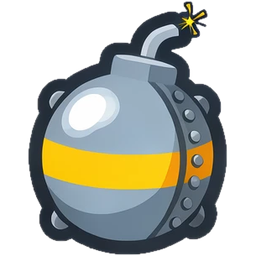
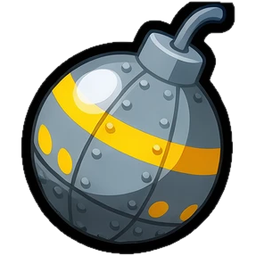
Zombie Bomber: use the new bomb sheet
The bombs in this sheet touch each other and have white details (dots,
skull) inside them. tools/cut_flood.py gets two options for that:
'keepholes' keeps enclosed white areas, and 'round' splits touching
round items by where their circles meet, then drops strays (another
bomb's fuse tip or outline) while keeping detached sparks. Hitboxes
regenerated.

Claude-Session: https://claude.ai/code/session_014gobheM9XG1GV5X2tuF5zD

diff --git a/bomber/shapes.js b/bomber/shapes.js
@@ -1,2 +1,2 @@
 // Generated: convex outline of each sprite in 256x256 sprite pixels, used as its hitbox.
-const SHAPES = {"../assets/bomber/bombs/01_firecracker.png": [[105.5,48.5],[147.5,21.5],[189.5,2.5],[205.5,12.5],[224.5,144.5],[224.5,169.5],[218.5,192.5],[205.5,216.5],[185.5,236.5],[167.5,246.5],[138.5,253.5],[115.5,253.5],[85.5,245.5],[50.5,216.5],[36.5,190.5],[31.5,145.5],[38.5,120.5],[53.5,95.5]],"../assets/bomber/bombs/02_cherry_bomb.png": [[205.5,13.5],[224.5,147.5],[218.5,192.5],[200.5,222.5],[180.5,239.5],[151.5,251.5],[117.5,253.5],[96.5,249.5],[69.5,235.5],[54.5,221.5],[38.5,195.5],[31.5,171.5],[31.5,141.5],[37.5,120.5],[62.5,85.5],[104.5,48.5],[147.5,20.5],[185.5,2.5]],"../assets/bomber/bombs/03_grenade.png": [[43.5,105.5],[98.5,12.5],[106.5,4.5],[132.5,2.5],[175.5,4.5],[208.5,26.5],[221.5,51.5],[225.5,142.5],[213.5,195.5],[201.5,217.5],[183.5,235.5],[158.5,248.5],[115.5,253.5],[91.5,248.5],[70.5,237.5],[51.5,219.5],[32.5,181.5],[29.5,146.5]],"../assets/bomber/bombs/04_dynamite.png": [[229.5,144.5],[229.5,158.5],[221.5,221.5],[215.5,233.5],[203.5,240.5],[141.5,253.5],[113.5,253.5],[96.5,250.5],[54.5,238.5],[43.5,233.5],[35.5,221.5],[26.5,147.5],[36.5,74.5],[50.5,59.5],[148.5,13.5],[187.5,2.5],[192.5,5.5],[221.5,77.5]],"../assets/bomber/bombs/05_tnt.png": [[62.5,84.5],[106.5,46.5],[147.5,20.5],[185.5,2.5],[205.5,15.5],[224.5,142.5],[225.5,163.5],[213.5,204.5],[195.5,228.5],[179.5,240.5],[152.5,251.5],[114.5,253.5],[88.5,246.5],[63.5,231.5],[42.5,205.5],[29.5,165.5],[29.5,147.5],[43.5,106.5]],"../assets/bomber/bombs/06_cluster_bomb.png": [[204.5,11.5],[229.5,154.5],[229.5,167.5],[199.5,234.5],[183.5,246.5],[139.5,253.5],[116.5,253.5],[102.5,251.5],[61.5,239.5],[55.5,232.5],[36.5,194.5],[26.5,162.5],[31.5,132.5],[35.5,119.5],[51.5,85.5],[61.5,73.5],[146.5,20.5],[184.5,2.5]],"../assets/bomber/bombs/07_aerial_bomb.png": [[146.5,20.5],[185.5,2.5],[206.5,13.5],[220.5,102.5],[225.5,140.5],[225.5,171.5],[215.5,221.5],[210.5,230.5],[197.5,238.5],[156.5,250.5],[139.5,253.5],[102.5,251.5],[56.5,240.5],[40.5,225.5],[30.5,175.5],[30.5,138.5],[38.5,98.5],[49.5,82.5]],"../assets/bomber/bombs/08_napalm.png": [[61.5,84.5],[106.5,46.5],[145.5,21.5],[185.5,2.5],[205.5,14.5],[224.5,143.5],[225.5,163.5],[219.5,190.5],[208.5,212.5],[177.5,241.5],[152.5,251.5],[114.5,253.5],[88.5,246.5],[63.5,231.5],[37.5,196.5],[29.5,167.5],[30.5,138.5],[44.5,103.5]],"../assets/bomber/bombs/09_bunker_buster.png": [[224.5,145.5],[221.5,185.5],[201.5,221.5],[179.5,240.5],[152.5,251.5],[113.5,253.5],[88.5,246.5],[71.5,237.5],[53.5,221.5],[32.5,181.5],[29.5,149.5],[35.5,123.5],[48.5,99.5],[59.5,87.5],[106.5,47.5],[146.5,21.5],[184.5,2.5],[204.5,14.5]],"../assets/bomber/bombs/10_thermobaric.png": [[205.5,12.5],[225.5,148.5],[221.5,187.5],[213.5,205.5],[194.5,230.5],[178.5,241.5],[142.5,253.5],[114.5,253.5],[88.5,246.5],[65.5,232.5],[43.5,206.5],[34.5,185.5],[30.5,149.5],[42.5,110.5],[65.5,82.5],[106.5,47.5],[145.5,22.5],[188.5,2.5]],"../assets/bomber/bombs/11_mega_nuke.png": [[206.5,13.5],[225.5,147.5],[225.5,168.5],[210.5,210.5],[177.5,241.5],[150.5,251.5],[119.5,253.5],[89.5,246.5],[69.5,235.5],[47.5,212.5],[34.5,186.5],[30.5,149.5],[34.5,128.5],[45.5,104.5],[65.5,82.5],[108.5,46.5],[144.5,23.5],[187.5,2.5]],"../assets/bomber/bombs/12_black_hole.png": [[205.5,12.5],[225.5,146.5],[225.5,168.5],[211.5,208.5],[191.5,232.5],[167.5,246.5],[139.5,253.5],[114.5,253.5],[88.5,246.5],[61.5,229.5],[38.5,196.5],[30.5,168.5],[34.5,128.5],[50.5,97.5],[66.5,81.5],[106.5,47.5],[148.5,20.5],[188.5,2.5]]};
+const SHAPES = {"../assets/bomber/bombs/01_firecracker.png": [[230.5,19.5],[227.5,164.5],[215.5,201.5],[190.5,231.5],[152.5,250.5],[114.5,253.5],[88.5,247.5],[59.5,230.5],[48.5,219.5],[31.5,190.5],[24.5,162.5],[24.5,142.5],[30.5,115.5],[44.5,89.5],[64.5,69.5],[81.5,59.5],[202.5,2.5],[224.5,7.5]],"../assets/bomber/bombs/02_cherry_bomb.png": [[230.5,15.5],[229.5,159.5],[221.5,191.5],[207.5,215.5],[181.5,238.5],[154.5,250.5],[115.5,253.5],[74.5,240.5],[60.5,230.5],[39.5,206.5],[27.5,178.5],[24.5,158.5],[26.5,127.5],[34.5,104.5],[48.5,83.5],[84.5,57.5],[196.5,5.5],[221.5,4.5]],"../assets/bomber/bombs/03_grenade.png": [[96.5,251.5],[60.5,223.5],[41.5,200.5],[27.5,160.5],[27.5,135.5],[34.5,109.5],[52.5,84.5],[150.5,4.5],[161.5,2.5],[204.5,21.5],[211.5,27.5],[228.5,57.5],[228.5,100.5],[225.5,156.5],[204.5,205.5],[182.5,232.5],[158.5,246.5],[127.5,253.5]],"../assets/bomber/bombs/04_dynamite.png": [[231.5,22.5],[228.5,164.5],[219.5,196.5],[189.5,233.5],[168.5,245.5],[139.5,253.5],[113.5,253.5],[90.5,248.5],[64.5,234.5],[47.5,218.5],[28.5,185.5],[23.5,159.5],[24.5,120.5],[28.5,108.5],[56.5,73.5],[84.5,56.5],[195.5,5.5],[223.5,5.5]],"../assets/bomber/bombs/05_tnt.png": [[234.5,16.5],[231.5,162.5],[227.5,179.5],[213.5,208.5],[196.5,227.5],[171.5,243.5],[146.5,251.5],[119.5,253.5],[88.5,247.5],[50.5,223.5],[26.5,186.5],[20.5,160.5],[24.5,112.5],[40.5,81.5],[61.5,60.5],[80.5,49.5],[185.5,2.5],[231.5,2.5]],"../assets/bomber/bombs/06_cluster_bomb.png": [[234.5,3.5],[234.5,150.5],[229.5,180.5],[208.5,218.5],[184.5,238.5],[141.5,253.5],[113.5,253.5],[81.5,244.5],[61.5,232.5],[37.5,205.5],[28.5,187.5],[21.5,157.5],[21.5,135.5],[26.5,112.5],[36.5,90.5],[56.5,66.5],[86.5,48.5],[188.5,2.5]],"../assets/bomber/bombs/07_aerial_bomb.png": [[233.5,23.5],[232.5,152.5],[227.5,179.5],[209.5,214.5],[185.5,236.5],[155.5,249.5],[119.5,253.5],[96.5,249.5],[73.5,239.5],[49.5,220.5],[30.5,190.5],[22.5,163.5],[22.5,131.5],[28.5,109.5],[46.5,78.5],[69.5,58.5],[189.5,2.5],[232.5,3.5]],"../assets/bomber/bombs/08_napalm.png": [[235.5,12.5],[233.5,155.5],[222.5,195.5],[196.5,228.5],[172.5,243.5],[133.5,253.5],[110.5,252.5],[81.5,244.5],[58.5,230.5],[43.5,215.5],[26.5,186.5],[19.5,157.5],[19.5,135.5],[26.5,106.5],[39.5,82.5],[67.5,56.5],[185.5,2.5],[232.5,2.5]],"../assets/bomber/bombs/09_bunker_buster.png": [[234.5,16.5],[231.5,166.5],[217.5,203.5],[196.5,228.5],[182.5,238.5],[157.5,249.5],[115.5,253.5],[94.5,249.5],[71.5,239.5],[48.5,220.5],[36.5,205.5],[24.5,179.5],[20.5,136.5],[27.5,107.5],[44.5,78.5],[74.5,54.5],[190.5,2.5],[231.5,2.5]],"../assets/bomber/bombs/10_thermobaric.png": [[234.5,23.5],[232.5,161.5],[226.5,186.5],[212.5,212.5],[192.5,232.5],[169.5,245.5],[136.5,253.5],[94.5,249.5],[70.5,238.5],[49.5,220.5],[36.5,203.5],[25.5,177.5],[21.5,143.5],[25.5,116.5],[50.5,73.5],[84.5,50.5],[191.5,2.5],[232.5,2.5]],"../assets/bomber/bombs/11_mega_nuke.png": [[233.5,2.5],[233.5,152.5],[232.5,166.5],[221.5,197.5],[194.5,230.5],[161.5,248.5],[116.5,253.5],[77.5,242.5],[56.5,228.5],[31.5,194.5],[23.5,171.5],[21.5,140.5],[23.5,123.5],[34.5,95.5],[47.5,77.5],[67.5,59.5],[82.5,51.5],[197.5,2.5]],"../assets/bomber/bombs/12_black_hole.png": [[234.5,8.5],[232.5,155.5],[222.5,194.5],[210.5,214.5],[182.5,238.5],[156.5,249.5],[112.5,252.5],[90.5,247.5],[58.5,229.5],[35.5,202.5],[24.5,176.5],[21.5,136.5],[24.5,118.5],[36.5,90.5],[57.5,65.5],[81.5,50.5],[189.5,2.5],[231.5,2.5]]};

diff --git a/tools/cut_flood.py b/tools/cut_flood.py
@@ -1,16 +1,21 @@
 # Cut the N biggest items from a sheet on a white background into 256x256 transparent PNGs.
 # Background = near-white pixels connected to the sheet's edge, plus enclosed near-white gaps (see HOLE_MIN).
 # The item edge is trimmed by a pixel and softened, so no light fringe from the background is left.
-# Usage: python3 tools/cut_flood.py sheet out_dir name1,name2,... [native]   (items in reading order)
+# Usage: python3 tools/cut_flood.py sheet out_dir name1,name2,... [native] [keepholes]   (items in reading order)
 #   native: save each item tightly cropped at the sheet's own resolution (keeps relative sizes),
 #   instead of padded to a 256x256 square
+#   keepholes: keep enclosed white areas (use when the art has white details like dots or skulls)
+#   round: items are roughly round and touch each other (e.g. bombs); splits them by circle instead of a straight cut
 import sys
 import numpy as np
 from PIL import Image, ImageFilter
 from scipy import ndimage
 
 src, out, names = sys.argv[1], sys.argv[2], sys.argv[3].split(',')
-NATIVE = len(sys.argv) > 4 and sys.argv[4] == 'native'
+FLAGS = sys.argv[4:]
+NATIVE = 'native' in FLAGS
+KEEP_HOLES = 'keepholes' in FLAGS   # sheets where enclosed white is art (white dots, skulls), not gaps
+ROUND = 'round' in FLAGS            # items are roughly round and may touch: split touching items along where their circles meet
 a = np.array(Image.open(src).convert('RGB'))
 ai = a.astype(int)
 light = (ai.min(axis=2) > 215) & ((ai.max(axis=2) - ai.min(axis=2)) < 35)
@@ -22,28 +27,59 @@ obj = ~np.isin(lab, list(edge))
 HOLE_MIN = 40   # pixels; enclosed white areas smaller than this are kept as detail
 white = (ai.min(axis=2) > 232) & ((ai.max(axis=2) - ai.min(axis=2)) < 25) & obj
 hl, hn = ndimage.label(white)
-if hn:
+if hn and not KEEP_HOLES:
     hsizes = ndimage.sum(white, hl, range(1, hn + 1))
     obj &= ~np.isin(hl, [i + 1 for i in range(hn) if hsizes[i] >= HOLE_MIN])
 obj = ndimage.binary_opening(obj, iterations=1)          # drop specks of noise
-joined = ndimage.binary_dilation(obj, iterations=2)   # join sparkles to their item
-# items that touch in the sheet: split any piece much wider than the others at its thinnest column
-for _ in range(len(names)):
+if not ROUND: joined = ndimage.binary_dilation(obj, iterations=2)   # join sparkles to their item
+if ROUND:
+    # each item's core = the deep inside of its shape; its circle = core centre + deepest distance to the edge.
+    # Every pixel goes to the item whose circle it fits best (power diagram), so touching circles split
+    # along the curve where they meet.
+    dist = ndimage.distance_transform_edt(obj)
+    cores, nc = ndimage.label(dist > 0.55 * dist.max())
+    centres = ndimage.center_of_mass(cores, cores, range(1, nc + 1))
+    radii = ndimage.maximum(dist, cores, range(1, nc + 1))
+    ys, xs = np.nonzero(obj)
+    best = np.full(len(ys), np.inf); owner = np.zeros(len(ys), int)
+    for k, ((cy, cx), r) in enumerate(zip(centres, radii)):
+        score = (ys - cy) ** 2 + (xs - cx) ** 2 - r ** 2
+        better = score < best; best[better] = score[better]; owner[better] = k + 1
+    items_lab = np.zeros(obj.shape, int); items_lab[ys, xs] = owner   # each pixel labelled with its item
+    n = nc
+    # bombs only stick out of their circle at the top (fuse, cap) or the right (grenade lever);
+    # anything outside the circle on the left belongs to the neighbour on that side
+    for k, ((cy, cx), r) in enumerate(zip(centres, radii)):
+        out_left = (items_lab == k + 1) & (((np.indices(obj.shape)[0] - cy) ** 2 + (np.indices(obj.shape)[1] - cx) ** 2) > (1.04 * r) ** 2) & (np.indices(obj.shape)[1] < cx - 0.35 * r)
+        items_lab[out_left] = 0
+    # drop stray bits handed to the wrong item (another bomb's fuse tip or outline): besides the piece
+    # holding the item's centre, keep only pieces that don't touch a neighbouring item (e.g. a spark)
+    owned = items_lab.copy()
+    for k, (cy, cx) in enumerate(centres):
+        mine = owned == k + 1
+        pieces, npieces = ndimage.label(mine)
+        main = pieces[int(cy), int(cx)]
+        others = (owned > 0) & ~mine
+        for pi in range(1, npieces + 1):
+            if pi == main: continue
+            piece = pieces == pi
+            if (ndimage.binary_dilation(piece, iterations=3) & others).any() or piece.sum() > 0.05 * mine.sum():
+                items_lab[piece] = 0
+# items that touch in the sheet: until we have as many real pieces as names, split the widest piece
+# (relative to its height) at its thinnest column
+for _ in ([] if ROUND else range(4 * len(names))):
     items_lab, n = ndimage.label(joined)
     sizes = ndimage.sum(obj, items_lab, range(1, n + 1))
-    big = sorted(range(1, n + 1), key=lambda i: -sizes[i - 1])[:len(names)]
-    boxes = {i: ndimage.find_objects(items_lab)[i - 1] for i in big}
-    widths = sorted(boxes[i][1].stop - boxes[i][1].start for i in big)
-    median = widths[len(widths) // 2]
-    wide = [i for i in big if boxes[i][1].stop - boxes[i][1].start > 1.6 * median]
-    if not wide: break
-    for i in wide:
-        ys, xs = boxes[i]
-        cols = (obj[ys, xs] & (items_lab[ys, xs] == i)).sum(axis=0)
-        w = len(cols); lo, hi = int(w * 0.3), int(w * 0.7)
-        cut = xs.start + lo + int(np.argmin(cols[lo:hi]))
-        joined[ys, cut - 1:cut + 2] = False
-items_lab, n = ndimage.label(joined)
+    real = [i for i in range(1, n + 1) if sizes[i - 1] > 0.15 * sizes.max()]
+    if len(real) >= len(names): break
+    boxes = {i: ndimage.find_objects(items_lab)[i - 1] for i in real}
+    i = max(real, key=lambda i: (boxes[i][1].stop - boxes[i][1].start) / (boxes[i][0].stop - boxes[i][0].start))
+    ys, xs = boxes[i]
+    cols = (obj[ys, xs] & (items_lab[ys, xs] == i)).sum(axis=0)
+    w = len(cols); lo, hi = int(w * 0.15), int(w * 0.85)
+    cut = xs.start + lo + int(np.argmin(cols[lo:hi]))
+    joined[ys, cut - 1:cut + 2] = False
+if not ROUND: items_lab, n = ndimage.label(joined)
 sizes = ndimage.sum(obj, items_lab, range(1, n + 1))
 keep = sorted(range(1, n + 1), key=lambda i: -sizes[i - 1])[:len(names)]
 boxes = {i: ndimage.find_objects(items_lab)[i - 1] for i in keep}
